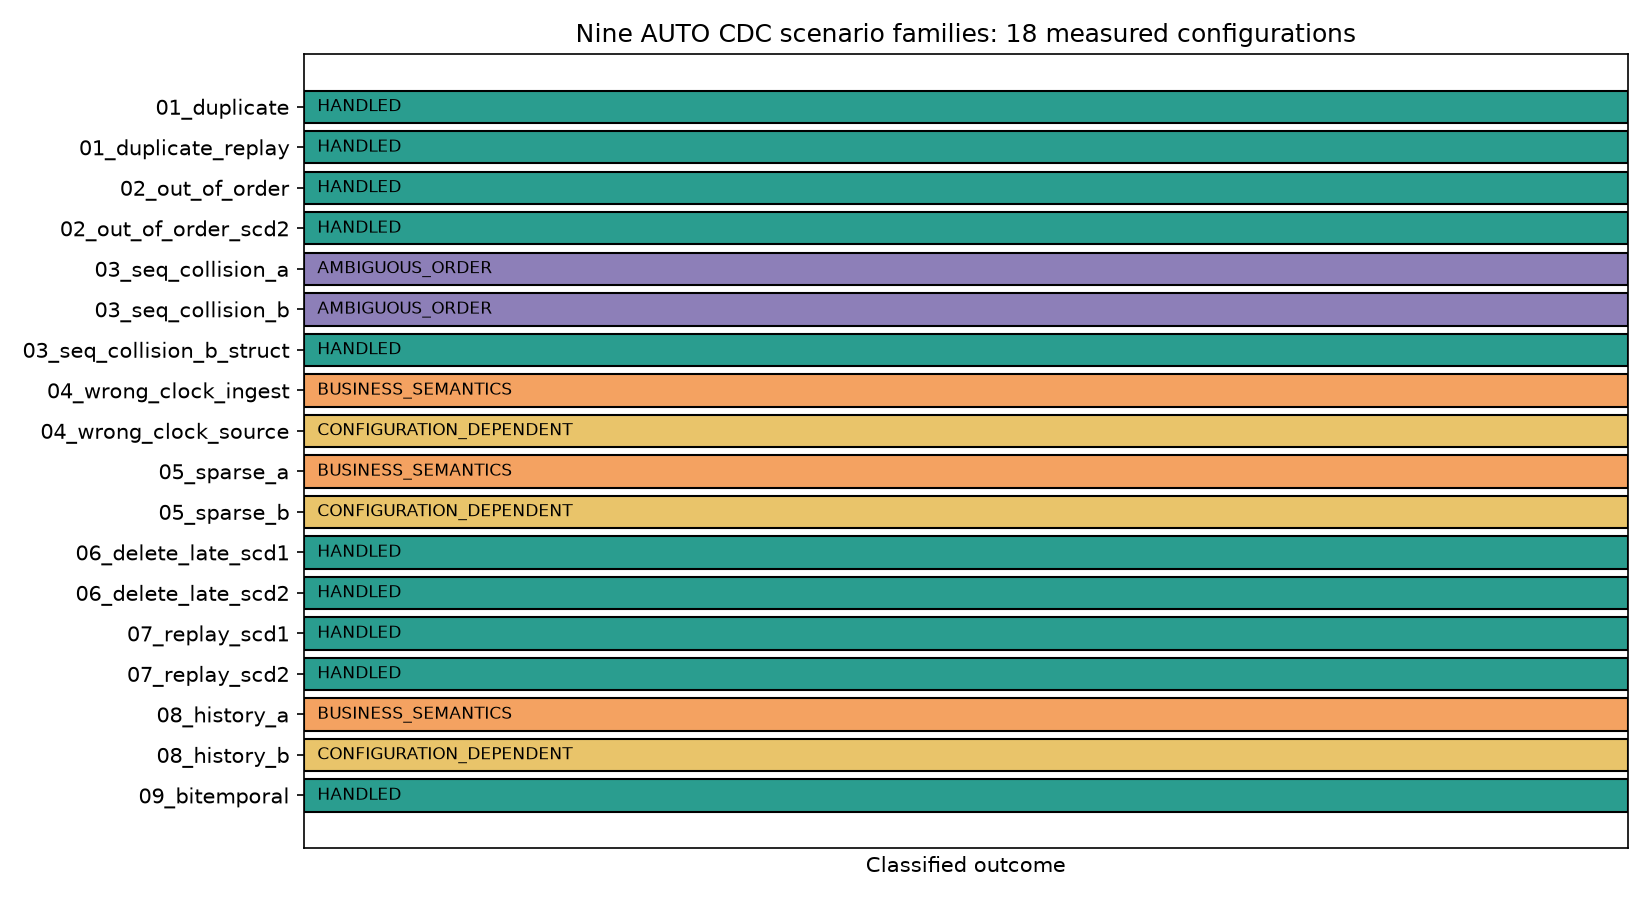
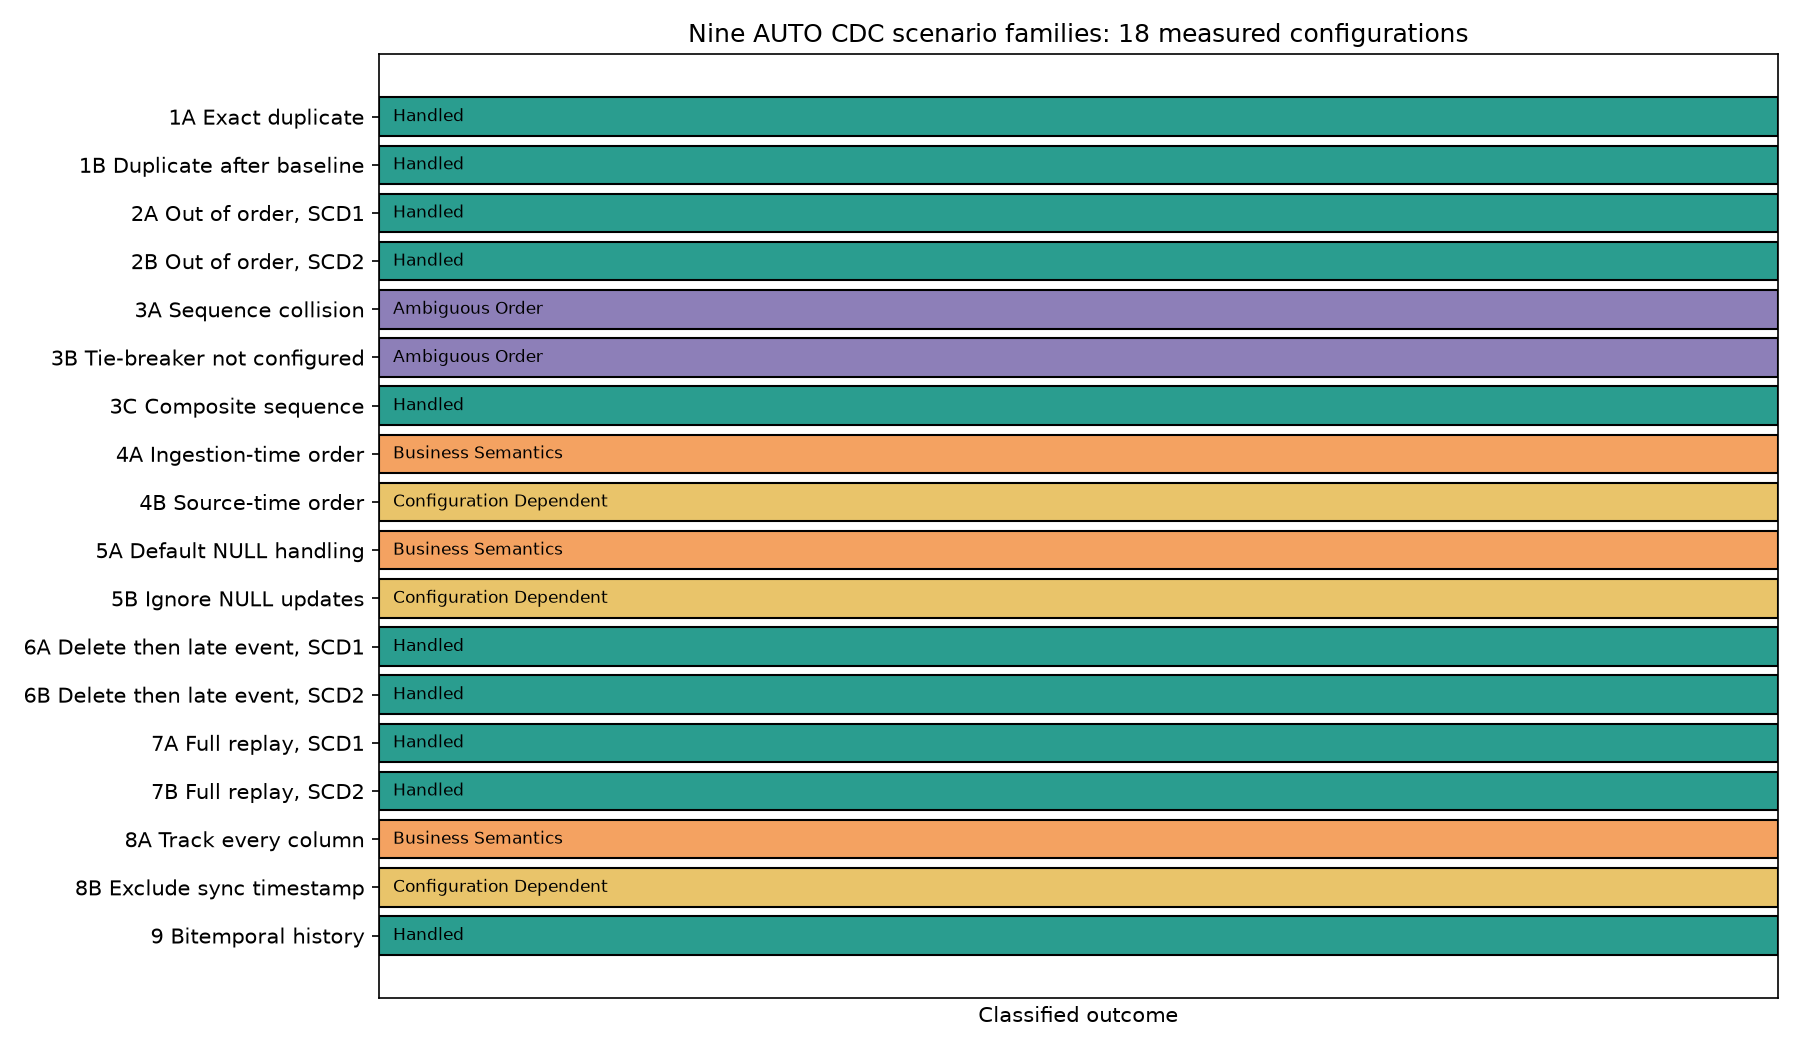
Close post-ship article audit gaps

Changed region(s): [[0.0, 0.0, 0.9891, 0.9956]]

diff --git a/src/scenario_specs.py b/src/scenario_specs.py
@@ -7,7 +7,6 @@ from dataclasses import dataclass
 from src.generators.dispatch import (
     CdcEvent,
     scenario_01_duplicate,
-    scenario_01_duplicate_replay,
     scenario_02_out_of_order,
     scenario_03_seq_collision_a,
     scenario_03_seq_collision_b,
@@ -91,19 +90,18 @@ SOURCE_SPECS = (
     _source("09_bitemporal", "s09_bitemporal_src", scenario_09_bitemporal()),
 )
 
-SCENARIO_EVENTS = {
-    "01_duplicate": scenario_01_duplicate(),
-    "01_duplicate_replay": scenario_01_duplicate_replay(),
-    "02_out_of_order": scenario_02_out_of_order(),
-    "03_seq_collision_a": scenario_03_seq_collision_a(),
-    "03_seq_collision_b": scenario_03_seq_collision_b(),
-    "04_wrong_clock": scenario_04_wrong_clock(),
-    "05_sparse": scenario_05_sparse(),
-    "06_delete_late": scenario_06_delete_late(),
-    "07_replay": scenario_07_replay(),
-    "08_history": scenario_08_history(),
-    "09_bitemporal": scenario_09_bitemporal(),
-}
+
+def _derive_scenario_events() -> dict[str, list[CdcEvent]]:
+    payloads: dict[str, tuple[CdcEvent, ...]] = {}
+    for spec in SOURCE_SPECS:
+        payload = spec.initial + spec.late
+        existing = payloads.setdefault(spec.scenario, payload)
+        if existing != payload:
+            raise ValueError(f"sources for {spec.scenario} do not share one logical event payload")
+    return {scenario: list(events) for scenario, events in payloads.items()}
+
+
+SCENARIO_EVENTS = _derive_scenario_events()
 
 INITIAL_ROWS_BY_SOURCE = {spec.source: list(spec.initial) for spec in SOURCE_SPECS}
 LATE_ROWS_BY_SOURCE = {spec.source: list(spec.late) for spec in SOURCE_SPECS if spec.late}
@@ -413,6 +411,26 @@ EXPECTED_LATE_PHASE_CHANGES = frozenset(
 )
 FLOW_BY_TARGET = {spec.target: spec for spec in FLOW_SPECS}
 CLASSIFICATION_BY_SCENARIO = {spec.scenario: spec.classification for spec in FLOW_SPECS}
+DISPLAY_NAME_BY_SCENARIO = {
+    "01_duplicate": "1A Exact duplicate",
+    "01_duplicate_replay": "1B Duplicate after baseline",
+    "02_out_of_order": "2A Out of order, SCD1",
+    "02_out_of_order_scd2": "2B Out of order, SCD2",
+    "03_seq_collision_a": "3A Sequence collision",
+    "03_seq_collision_b": "3B Tie-breaker not configured",
+    "03_seq_collision_b_struct": "3C Composite sequence",
+    "04_wrong_clock_ingest": "4A Ingestion-time order",
+    "04_wrong_clock_source": "4B Source-time order",
+    "05_sparse_a": "5A Default NULL handling",
+    "05_sparse_b": "5B Ignore NULL updates",
+    "06_delete_late_scd1": "6A Delete then late event, SCD1",
+    "06_delete_late_scd2": "6B Delete then late event, SCD2",
+    "07_replay_scd1": "7A Full replay, SCD1",
+    "07_replay_scd2": "7B Full replay, SCD2",
+    "08_history_a": "8A Track every column",
+    "08_history_b": "8B Exclude sync timestamp",
+    "09_bitemporal": "9 Bitemporal history",
+}
 
 
 def validate_registry() -> None:
@@ -427,6 +445,9 @@ def validate_registry() -> None:
         raise ValueError(f"flow sources are not registered: {missing_sources}")
     if len(FLOW_SPECS) != 18:
         raise ValueError(f"expected 18 flow configurations, got {len(FLOW_SPECS)}")
+    scenarios = {spec.scenario for spec in FLOW_SPECS}
+    if set(DISPLAY_NAME_BY_SCENARIO) != scenarios:
+        raise ValueError("display names must cover every flow scenario exactly")
 
 
 validate_registry()

diff --git a/src/analysis/figures.py b/src/analysis/figures.py
@@ -17,6 +17,8 @@ import matplotlib
 matplotlib.use("Agg")
 import matplotlib.pyplot as plt
 
+from src.scenario_specs import DISPLAY_NAME_BY_SCENARIO
+
 RESULTS_DIR = Path(__file__).resolve().parent.parent.parent / "results"
 NORM_DIR = RESULTS_DIR / "normalized"
 RAW_DIR = RESULTS_DIR / "raw"
@@ -33,9 +35,10 @@ def _load_matrix():
 
 
 def figure_summary_matrix(matrix) -> Path:
-    fig, ax = plt.subplots(figsize=(11, 6))
-    scenarios = [m["scenario"] for m in matrix]
+    fig, ax = plt.subplots(figsize=(12, 7))
+    scenarios = [DISPLAY_NAME_BY_SCENARIO[m["scenario"]] for m in matrix]
     classifications = [m["classification"] for m in matrix]
+    display_classifications = [value.replace("_", " ").title() for value in classifications]
     palette = {
         "HANDLED": "#2a9d8f",
         "CONFIGURATION_DEPENDENT": "#e9c46a",
@@ -44,7 +47,7 @@ def figure_summary_matrix(matrix) -> Path:
     }
     colors = [palette.get(c, "#999") for c in classifications]
     ax.barh(scenarios, [1] * len(scenarios), color=colors, edgecolor="black")
-    for i, c in enumerate(classifications):
+    for i, c in enumerate(display_classifications):
         ax.text(0.01, i, c, va="center", color="black", fontsize=8)
     ax.set_xlabel("Classified outcome")
     ax.set_xlim(0, 1)

diff --git a/tests/test_generators.py b/tests/test_generators.py
@@ -7,7 +7,13 @@ from src.generators.dispatch import (
     _rows_to_insert_sql,
     _t,
 )
-from src.scenario_specs import FLOW_SPECS, INITIAL_ROWS_BY_SOURCE, LATE_ROWS_BY_SOURCE, SOURCE_SPECS
+from src.scenario_specs import (
+    FLOW_SPECS,
+    INITIAL_ROWS_BY_SOURCE,
+    LATE_ROWS_BY_SOURCE,
+    SCENARIO_EVENTS,
+    SOURCE_SPECS,
+)
 
 
 def test_t_adds_seconds() -> None:
@@ -31,6 +37,12 @@ def test_every_source_row_uses_the_typed_schema() -> None:
         for rows in rows_by_source.values():
             assert all(isinstance(row, CdcEvent) for row in rows)
             assert all(row._fields == SOURCE_COLUMNS for row in rows)
+
+
+def test_dispatch_events_match_each_materialized_scenario_stream() -> None:
+    for source in SOURCE_SPECS:
+        assert SCENARIO_EVENTS[source.scenario] == list(source.initial + source.late)
+    assert len(SCENARIO_EVENTS["07_replay"]) == 10
 
 
 def test_insert_sql_escapes_strings() -> None:

diff --git a/tests/test_evidence.py b/tests/test_evidence.py
@@ -54,6 +54,19 @@ def test_raw_results_use_current_evidence_schema() -> None:
     assert all("documented_contract_valid" not in row for row in rows)
 
 
+def test_local_package_does_not_install_managed_spark_runtime() -> None:
+    pyproject = (ROOT / "pyproject.toml").read_text(encoding="utf-8")
+    assert '"pyspark' not in pyproject
+    assert '"delta-spark' not in pyproject
+
+
+def test_make_cleanup_requires_independent_confirmation() -> None:
+    makefile = (ROOT / "Makefile").read_text(encoding="utf-8")
+    assert "CONFIRM_SCHEMA ?=" in makefile
+    assert "--confirm-schema $(CONFIRM_SCHEMA)" in makefile
+    assert "--confirm-schema $(SCHEMA)" not in makefile
+
+
 def test_baseline_validation_requires_every_registered_target() -> None:
     targets = {target: {} for target in TARGET_NAMES}
     targets.pop("s02_out_of_order_scd2_tgt")

diff --git a/src/generators/dispatch.py b/src/generators/dispatch.py
@@ -105,11 +105,6 @@ def scenario_01_duplicate() -> list[CdcEvent]:
     return [_event(status="ACTIVE", source_seconds=0, source_sequence=10, ingested_seconds=0)]
 
 
-def scenario_01_duplicate_replay() -> list[CdcEvent]:
-    """The same logical event delivered twice: once, then replayed."""
-    return scenario_01_duplicate() + scenario_01_duplicate()
-
-
 # ---------------------------------------------------------------------------
 # Scenario 2 — valid out-of-order
 # ---------------------------------------------------------------------------

diff --git a/article/article.md b/article/article.md
@@ -190,7 +190,7 @@ A `customer` has `email='x@example.com'`. The next CDC event updates `city='Ista
 
 Databricks documents that `IGNORE NULL UPDATES` retains an existing target value when the corresponding incoming value is `NULL`.
 
-Without this option, AUTO CDC applies the NULL without a log line, exception, or metric. Scenario 5A demonstrates the result. Use `IGNORE NULL UPDATES` when NULL means "absent"; leave it off when NULL means "set to NULL."
+Without this option, the run completed and the target email became `NULL`. Scenario 5A demonstrates the measured result. Use `IGNORE NULL UPDATES` when NULL means "absent"; leave it off when NULL means "set to NULL."
 
 ---
 
@@ -287,27 +287,26 @@ Bitemporal is the only context where `SYSTEM SEQUENCE BY` is honored. It is docu
 
 ## Summary matrix
 
-```
-Scenario                          Pipeline  Correct state  Ordering   Classification
-01_duplicate                      GREEN     YES            COMPLETE   HANDLED
-01_duplicate_replay               GREEN     YES            COMPLETE   HANDLED
-02_out_of_order                   GREEN     YES            COMPLETE   HANDLED
-02_out_of_order_scd2              GREEN     YES            COMPLETE   HANDLED
-03_seq_collision_a                GREEN     NO             AMBIGUOUS  AMBIGUOUS_ORDER
-03_seq_collision_b                GREEN     YES            AMBIGUOUS  AMBIGUOUS_ORDER
-03_seq_collision_b_struct         GREEN     YES            COMPLETE   HANDLED
-04_wrong_clock_ingest             GREEN     NO             COMPLETE   BUSINESS_SEMANTICS
-04_wrong_clock_source             GREEN     YES            COMPLETE   CONFIGURATION_DEPENDENT
-05_sparse_a                       GREEN     NO             COMPLETE   BUSINESS_SEMANTICS
-05_sparse_b                       GREEN     YES            COMPLETE   CONFIGURATION_DEPENDENT
-06_delete_late_scd1               GREEN     YES            COMPLETE   HANDLED
-06_delete_late_scd2               GREEN     YES            COMPLETE   HANDLED
-07_replay_scd1                    GREEN     YES            COMPLETE   HANDLED
-07_replay_scd2                    GREEN     YES            COMPLETE   HANDLED
-08_history_a                      GREEN     NO             COMPLETE   BUSINESS_SEMANTICS
-08_history_b                      GREEN     YES            COMPLETE   CONFIGURATION_DEPENDENT
-09_bitemporal                     GREEN     YES            COMPLETE   HANDLED
-```
+| Configuration | Pipeline | Business state | Ordering | Outcome |
+|---|---|---|---|---|
+| 1A Exact duplicate | Green | Yes | Complete | Handled |
+| 1B Duplicate after baseline | Green | Yes | Complete | Handled |
+| 2A Out of order, SCD1 | Green | Yes | Complete | Handled |
+| 2B Out of order, SCD2 | Green | Yes | Complete | Handled |
+| 3A Sequence collision | Green | No | Ambiguous | Ambiguous order |
+| 3B Tie-breaker not configured | Green | Yes | Ambiguous | Ambiguous order |
+| 3C Composite sequence | Green | Yes | Complete | Handled |
+| 4A Ingestion-time order | Green | No | Complete | Business semantics |
+| 4B Source-time order | Green | Yes | Complete | Configuration-dependent |
+| 5A Default NULL handling | Green | No | Complete | Business semantics |
+| 5B Ignore NULL updates | Green | Yes | Complete | Configuration-dependent |
+| 6A Delete then late event, SCD1 | Green | Yes | Complete | Handled |
+| 6B Delete then late event, SCD2 | Green | Yes | Complete | Handled |
+| 7A Full replay, SCD1 | Green | Yes | Complete | Handled |
+| 7B Full replay, SCD2 | Green | Yes | Complete | Handled |
+| 8A Track every column | Green | No | Complete | Business semantics |
+| 8B Exclude sync timestamp | Green | Yes | Complete | Configuration-dependent |
+| 9 Bitemporal history | Green | Yes | Complete | Handled |
 
 ![All 18 measured configurations grouped by handled, configuration-dependent, business-semantics, and ambiguous-order outcomes.](../results/figures/summary_matrix.png)
 

diff --git a/docs/reproduction.md b/docs/reproduction.md
@@ -44,7 +44,7 @@ The four commands you actually need:
 make setup      # validates and deploys the bundle
 make test       # runs the initial and late/replay phases, then verifies live targets
 make results    # <1 min.  regenerates the summary matrix and figures
-make cleanup    # ~1 min.  drops schema and destroys the bundle
+make cleanup CONFIRM_SCHEMA=auto_cdc_torture_test # ~1 min.  drops schema and destroys the bundle
 ```
 
 ### What `make setup` does
@@ -76,7 +76,7 @@ The result-generation step does not mutate source or target tables.
 - `databricks bundle destroy --auto-approve -t dev` — destroys the pipeline and any other bundle resources.
 - `DROP SCHEMA workspace.auto_cdc_torture_test CASCADE` — drops every table the experiment created.
 
-The Python cleanup command requires `--confirm-schema` to match `--schema` exactly and refuses cascading deletion unless the schema starts with `auto_cdc_torture`. The default is `auto_cdc_torture_test`; custom runs must use an equally isolated prefixed schema.
+The Make target requires `CONFIRM_SCHEMA` to be supplied independently and to match `SCHEMA` exactly before either destructive command runs. The Python cleanup command repeats that check and refuses cascading deletion unless the schema starts with `auto_cdc_torture`. The default is `auto_cdc_torture_test`; custom runs must use an equally isolated prefixed schema.
 
 ## Running a single scenario
 

diff --git a/README.md b/README.md
@@ -65,10 +65,10 @@ cd lakeflow-auto-cdc-torture-test
 make setup   # validates and deploys the bundle
 make test    # captures a baseline, appends late/replay rows, verifies both phases
 make results # regenerates the summary matrix and figures
-make cleanup # drops schema and destroys the bundle
+make cleanup CONFIRM_SCHEMA=auto_cdc_torture_test # drops schema and destroys the bundle
 ```
 
-The default schema is `auto_cdc_torture_test`. Cleanup requires an exact confirmation and refuses cascading deletion outside the `auto_cdc_torture` schema prefix.
+The default schema is `auto_cdc_torture_test`. Cleanup requires a separately supplied exact confirmation and refuses cascading deletion outside the `auto_cdc_torture` schema prefix. The Makefile does not derive that confirmation from the target schema.
 
 ## Read next
 

diff --git a/docs/architecture.md b/docs/architecture.md
@@ -120,7 +120,7 @@ This layering is what makes the experiment *reproducible* in the strict sense: e
 
 ## Boundaries
 
-- Cleanup requires an exact schema confirmation and refuses `CASCADE` outside the `auto_cdc_torture` schema prefix.
+- Cleanup requires a separately supplied exact schema confirmation and refuses `CASCADE` outside the `auto_cdc_torture` schema prefix.
 - The bundle is bounded to the `auto_cdc_torture_pipeline` resource. `databricks bundle destroy` removes it.
 - Direct Python and test dependencies are pinned in `pyproject.toml`.
 - The Databricks CLI is the only authentication path. No PATs, no OAuth tokens, no service principals in the repo.
